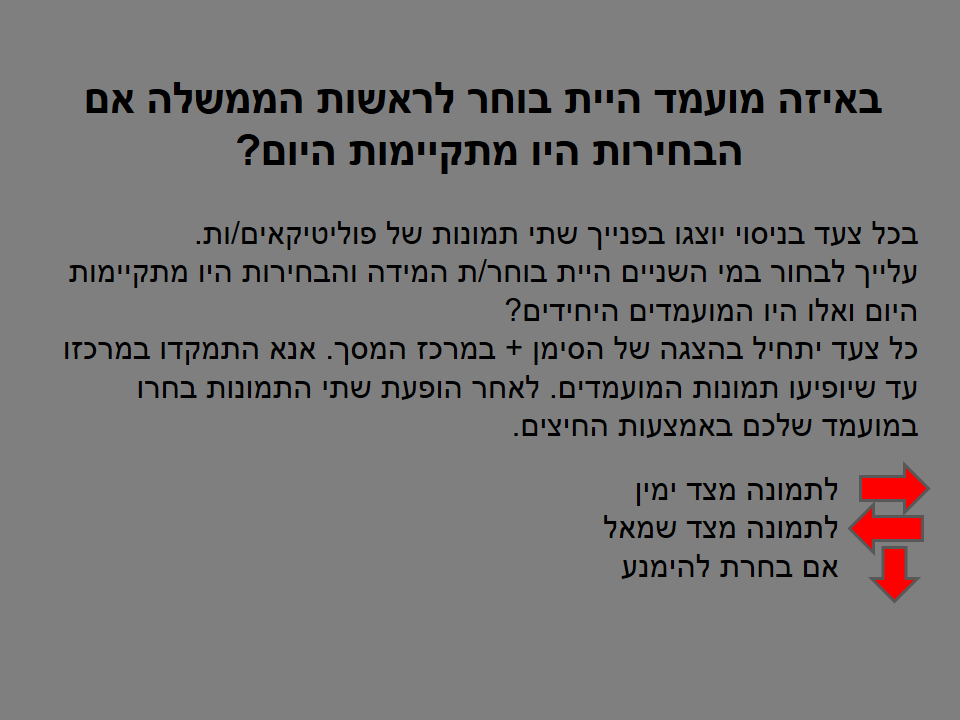
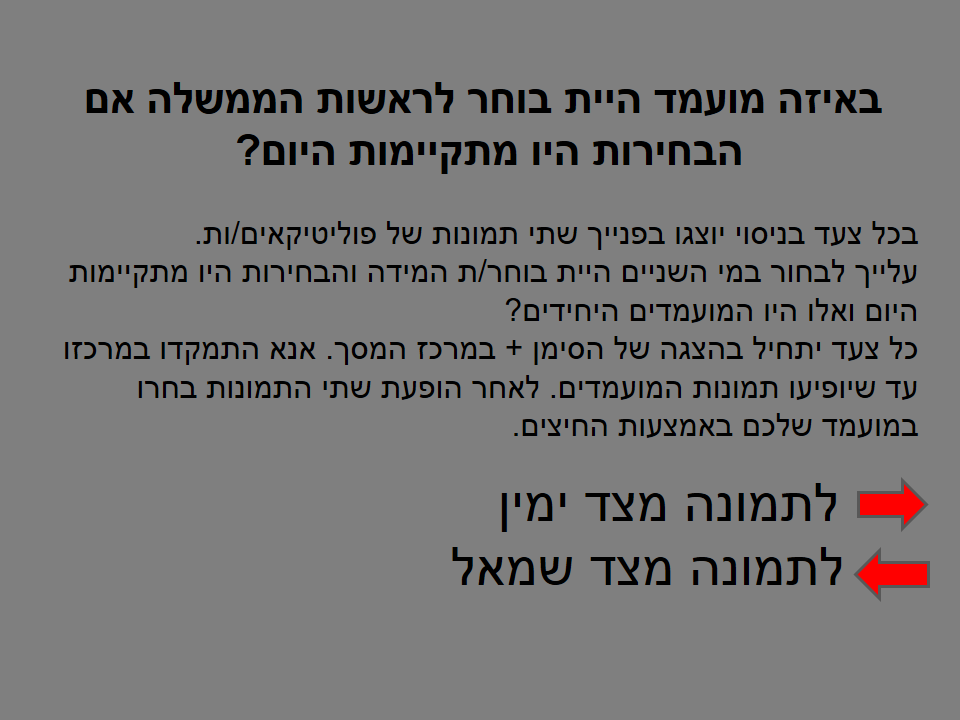
change block 1 to be 3 seconds for each couple, remove avoidance and change instruction according to the new changes

Changed region(s): [[0.625, 0.6417, 0.9688, 0.8556], [0.4688, 0.7639, 0.5938, 0.825], [0.5, 0.6722, 0.5938, 0.7333]]

diff --git a/template1.m b/template1.m
@@ -106,7 +106,7 @@ MAX_GAZE_DIST_FROM_CENTER_IN_VANGLES= [];
 EYE_TRACKING_METHOD= [];
 EEG= [];
 DEBUG= [];
-TIME_WAITING_AT_THE_BEGINGING_OF_THE_TRIAL = 0;
+TIME_WAITING_AT_THE_BEGINGING_OF_THE_TRIAL = 3;
 TIME_FOR_FIXATION = 1.5;
 TIME_TO_WAIT_FOR_PIC = 1.2;
 NUMBER_OF_MSG_INVALID_KEY_TYPED = 7;
@@ -698,7 +698,8 @@ end
             Screen('Flip', window);
             sendTrigger(TRIGGERS_SHOWING_PICTURE);
             WaitSecs(TIME_WAITING_AT_THE_BEGINGING_OF_THE_TRIAL);
-            % Down = Abstain
+            drawFixationCross(FIXATION_CROSS_ARMS_LEN, FIXATION_CROSS_ARMS_WIDTH, FIXATION_CROSS_COLOR);
+            Screen('Flip', window);
             while (1)
                 [keyIsDown, secs, keyCode] = KbCheck();
                 switch blockNum
@@ -714,12 +715,6 @@ end
                                 return;
                             elseif (pressed_key_code == KBOARD_CODE_RIGHT)
                                 subject_response = RIGHT;
-                                sendTrigger(TRIGGERS_PRESSING_KEYBOARD);
-                                sendTrigger(TRIGGERS_END_TRIAL);
-                                picRank = NaN;
-                                return;
-                            elseif (pressed_key_code == KBOARD_CODE_DOWN)
-                                subject_response = DOWN;
                                 sendTrigger(TRIGGERS_PRESSING_KEYBOARD);
                                 sendTrigger(TRIGGERS_END_TRIAL);
                                 picRank = NaN;
